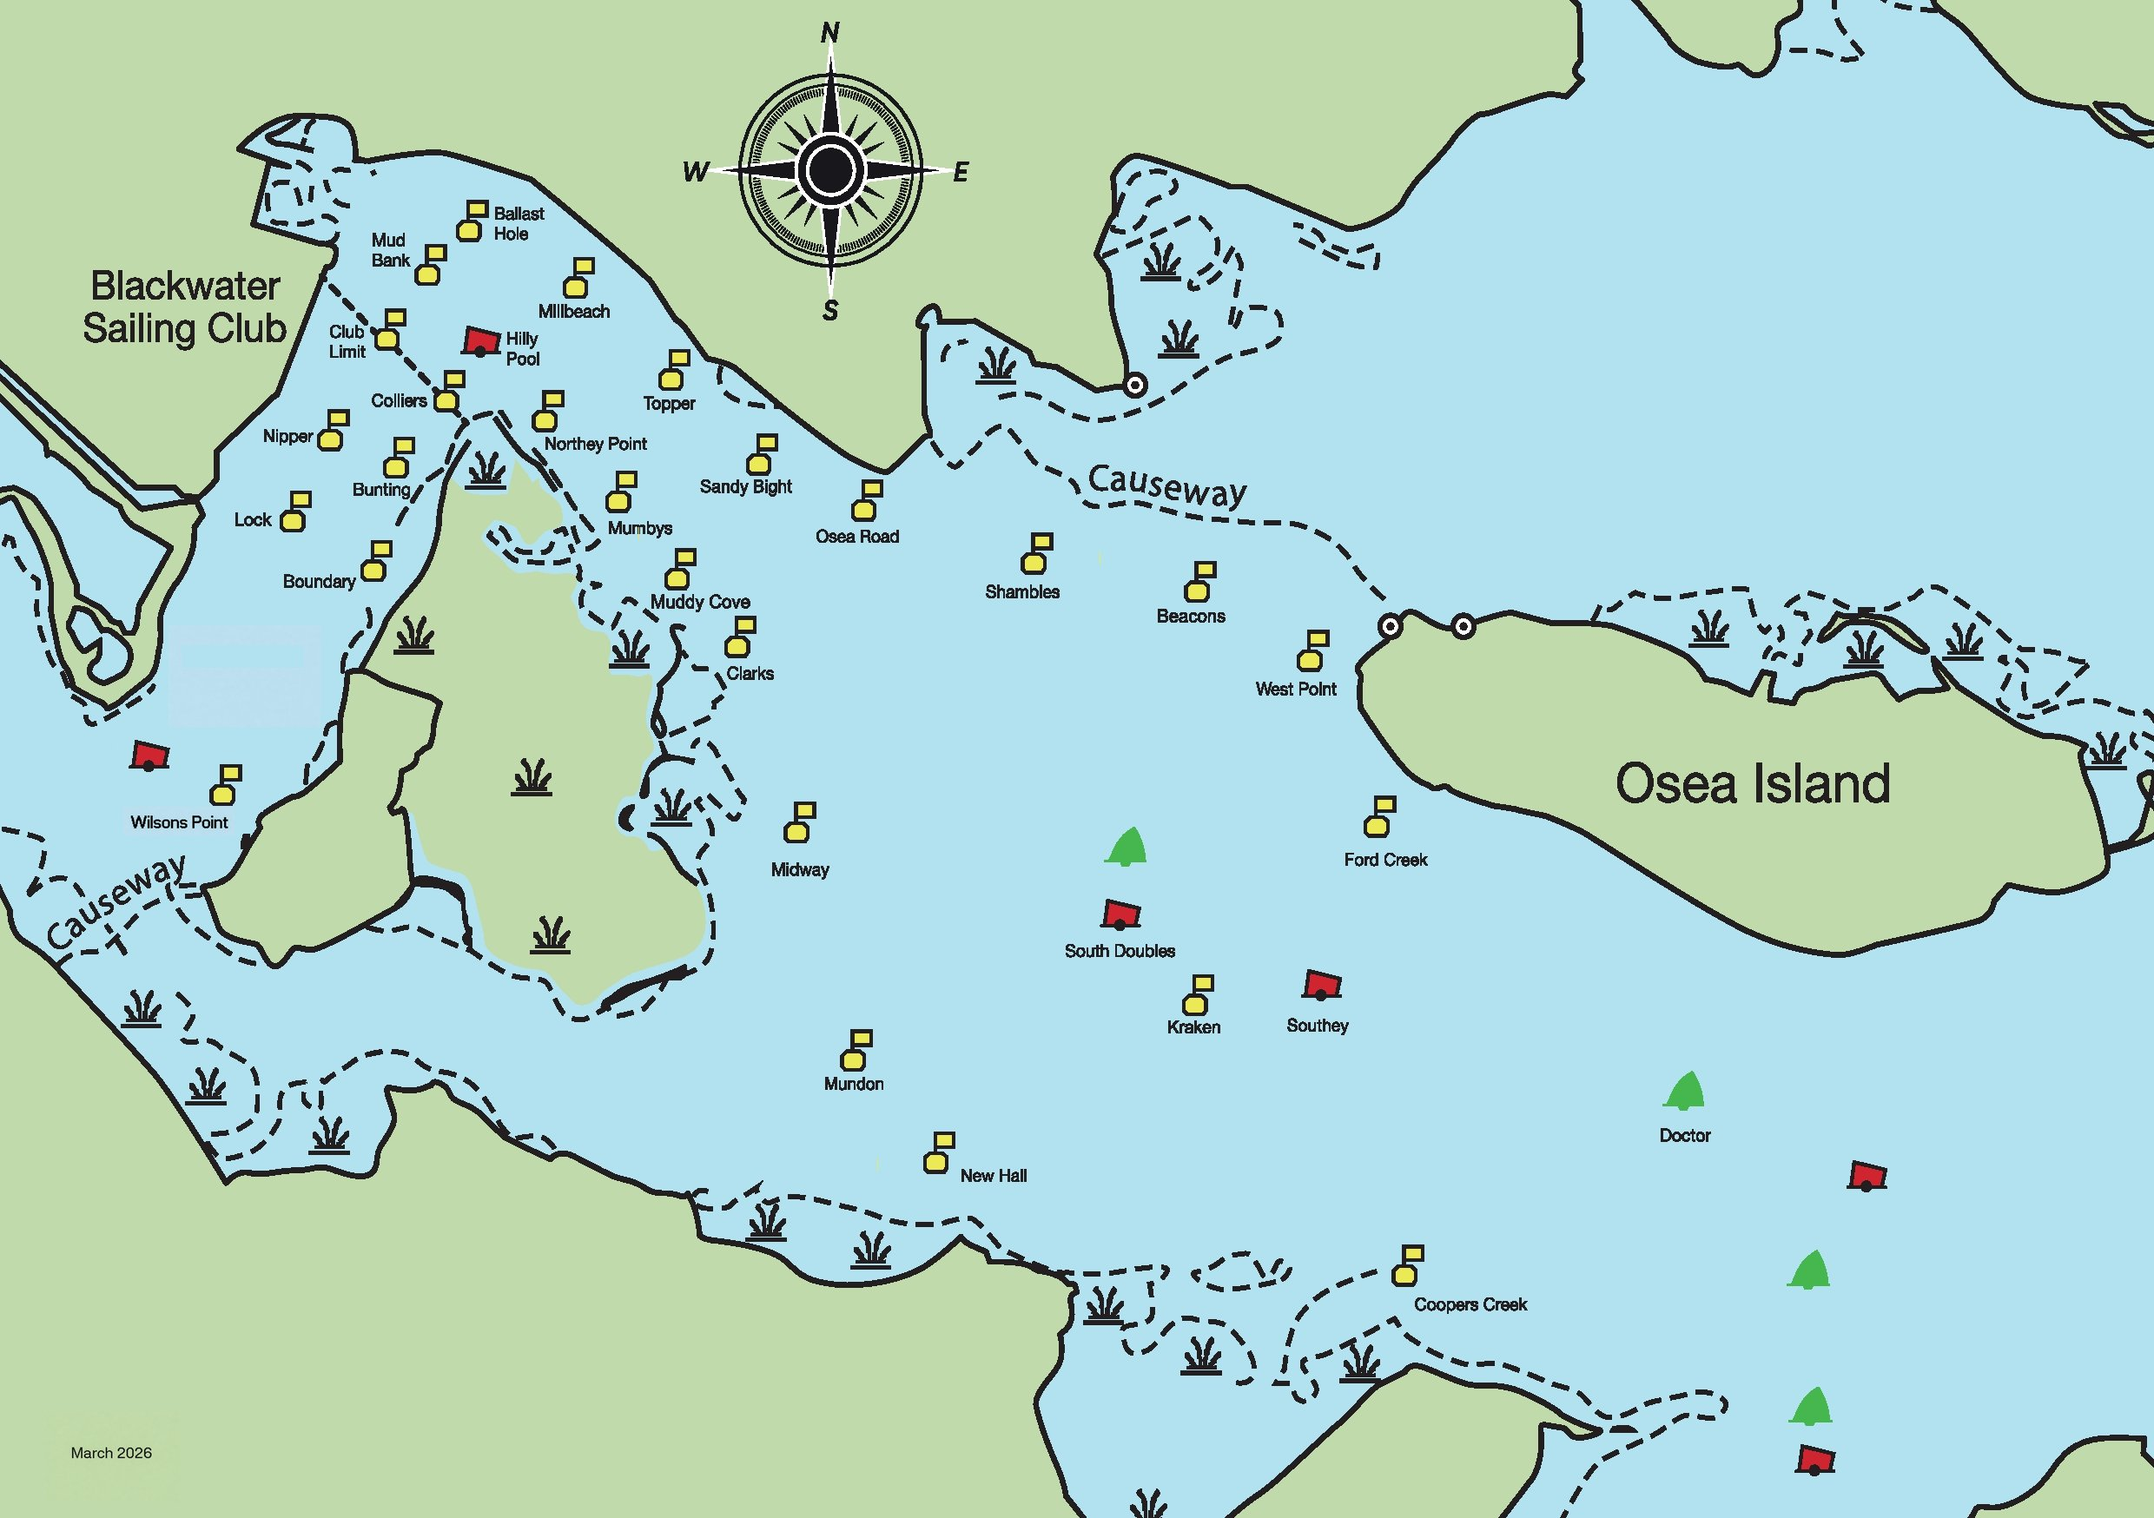
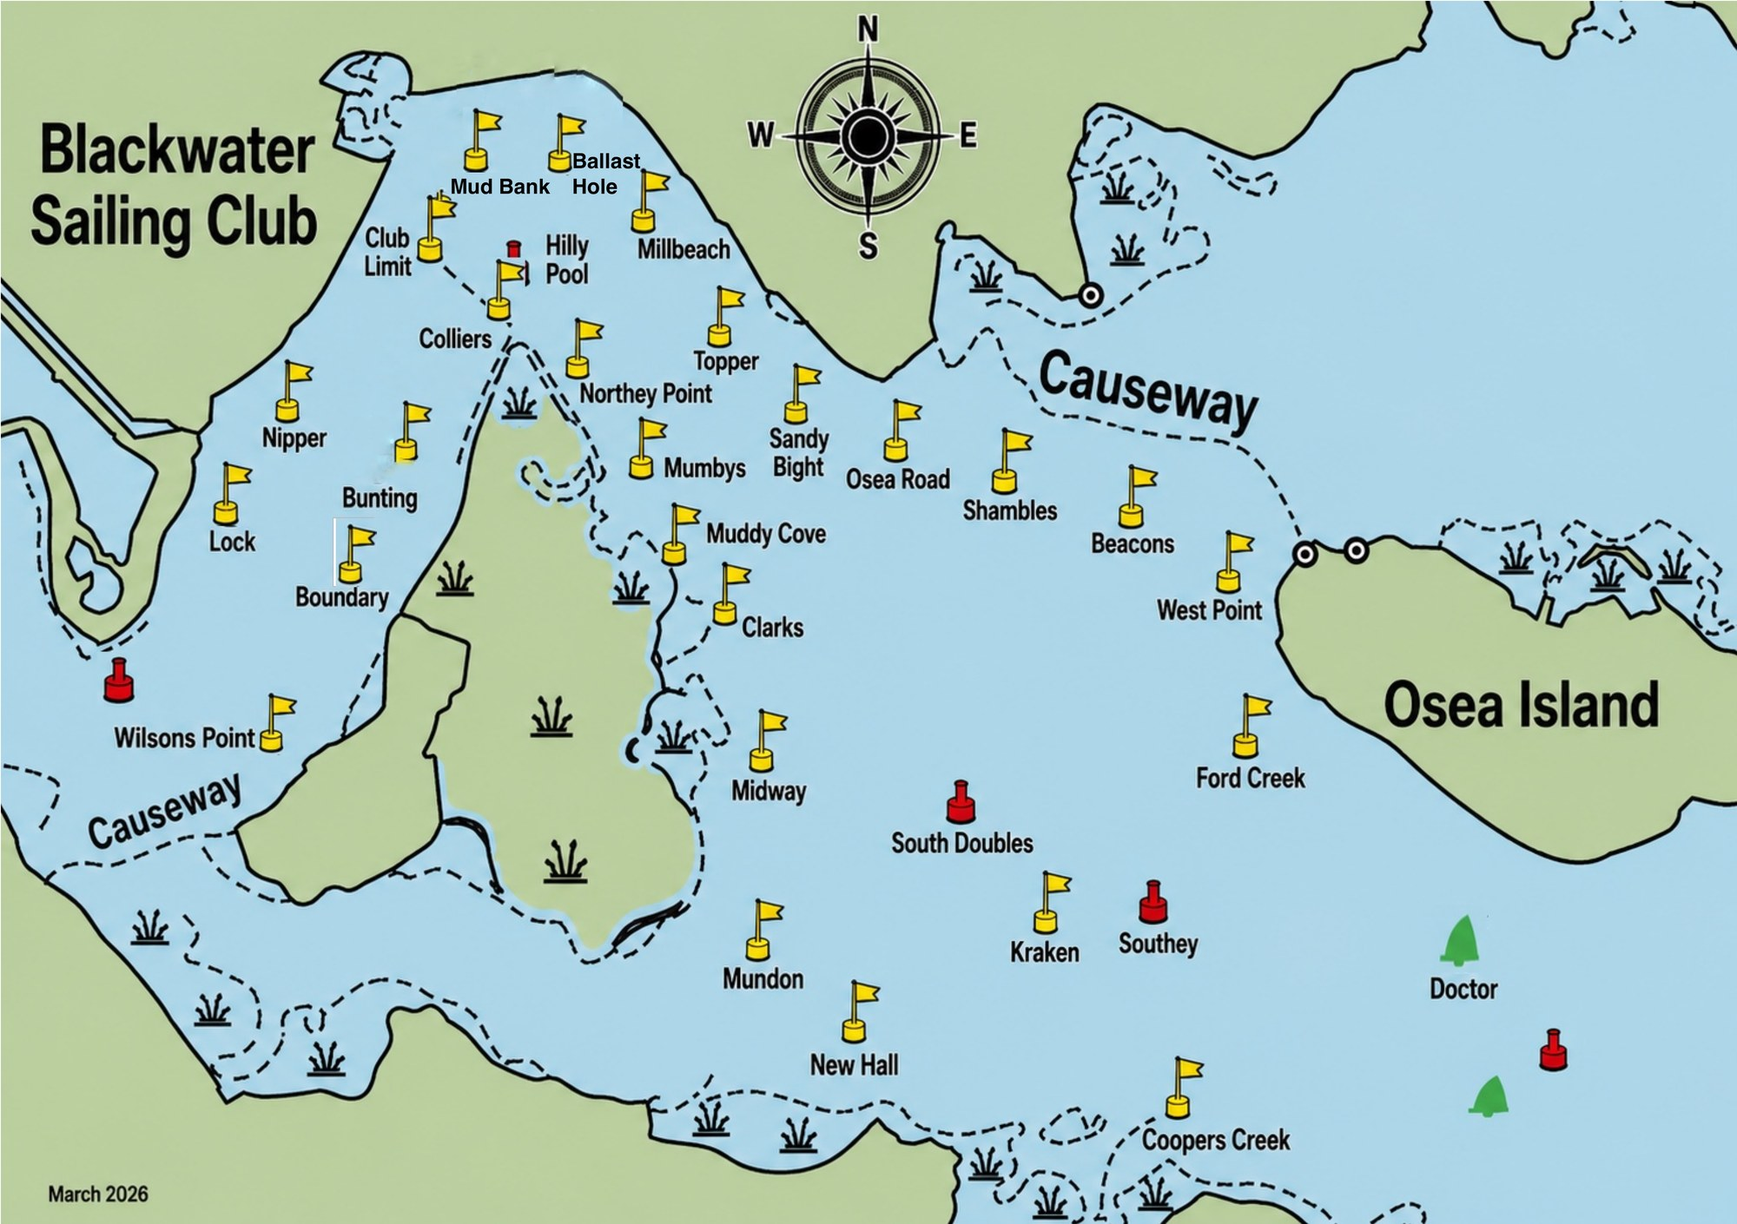
v2.11.0: large-print chart, remove Google Map

diff --git a/index.html b/index.html
@@ -1,5 +1,5 @@
 <!DOCTYPE html>
-<!-- BSC Sailing Calendar app, version 2.9.1 (2026-09-20) -->
+<!-- BSC Sailing Calendar app, version 2.11.0 (2026-09-23) -->
 <html lang="en-GB">
 <head>
 <meta charset="utf-8">
@@ -160,7 +160,6 @@ dialog#marks::backdrop { background: rgba(8, 20, 30, 0.6); }
 .chart-box { position: relative; width: 100%; aspect-ratio: 4/3; background: var(--bg); border: 1px solid var(--line); border-radius: 6px; overflow: hidden; }
 .chart-box iframe, .chart-box img { display: block; width: 100%; height: 100%; border: 0; object-fit: contain; background: #fff; }
 .chart-note { color: var(--muted); font-size: 0.85rem; margin: 8px 0 0; }
-.chart-toggle { margin: 10px 0 0; }
 .marklist { column-width: 150px; column-gap: 14px; margin: 14px 0 0; padding: 0; list-style: none; font-size: 0.92rem; }
 .marklist li { break-inside: avoid; padding: 3px 0; }
 .course-search { width: 100%; font: inherit; color: var(--ink); background: var(--surface); border: 1px solid var(--line); border-radius: 4px; padding: 9px 11px; margin: 0 0 8px; }
@@ -185,26 +184,27 @@ dialog#marks::backdrop { background: rgba(8, 20, 30, 0.6); }
 /* GO SAIL full-screen view: fixed dark, high-contrast, for reading on deck */
 dialog#sail { border: 0; padding: 0; width: 100%; height: 100%; max-width: 100%; max-height: 100%; margin: 0; background: #05131c; color: #fff; }
 dialog#sail::backdrop { background: #05131c; }
-.sail-in { min-height: 100%; padding: env(safe-area-inset-top, 16px) 16px calc(env(safe-area-inset-bottom, 16px) + 16px); box-sizing: border-box; }
+.sail-in { height: 100%; display: flex; flex-direction: column; padding: env(safe-area-inset-top, 14px) 16px calc(env(safe-area-inset-bottom, 12px) + 12px); box-sizing: border-box; }
 .sail-top { display: flex; justify-content: space-between; align-items: flex-start; gap: 10px; }
-.sail-code { font-family: var(--display); font-weight: 700; font-size: clamp(2.4rem, 13vw, 4rem); line-height: 1; letter-spacing: -0.01em; }
-.sail-meta { color: #9fc3d6; font-size: 1.05rem; margin-top: 4px; }
+.sail-code { font-family: var(--display); font-weight: 700; font-size: clamp(1.3rem, 6vw, 1.8rem); line-height: 1; letter-spacing: -0.01em; }
+.sail-meta { color: #9fc3d6; font-size: 0.95rem; margin-top: 3px; }
+.sail-header-row { flex: none; }
 .sail-close { flex: none; background: #12283a; color: #fff; border: 1px solid #2c4a5c; border-radius: 6px; padding: 10px 16px; font: inherit; font-size: 1rem; }
-.sail-stats { display: grid; grid-template-columns: 1fr 1fr; gap: 10px; margin: 18px 0 4px; }
-.sail-stat { background: #0d2130; border: 1px solid #1f3d4f; border-radius: 8px; padding: 10px 14px; }
+.sail-stats { flex: none; display: grid; grid-template-columns: 1fr 1fr; gap: 8px; margin: 10px 0 0; }
+.sail-stat { background: #0d2130; border: 1px solid #1f3d4f; border-radius: 8px; padding: 8px 12px; }
 .sail-stat span { display: block; color: #9fc3d6; font-size: 0.95rem; text-transform: uppercase; letter-spacing: 0.06em; }
-.sail-stat b { display: block; font-family: var(--display); font-weight: 700; font-size: clamp(1.8rem, 8vw, 2.6rem); line-height: 1.15; }
+.sail-stat b { display: block; font-family: var(--display); font-weight: 700; font-size: clamp(1.5rem, 6.5vw, 2.1rem); line-height: 1.15; }
 .sail-stat b.sail-empty { font-size: 1.3rem; font-weight: 600; color: #9fc3d6; }
-.sail-list { list-style: none; margin: 22px 0 0; padding: 0; }
-.sail-list li { display: flex; align-items: center; gap: 16px; padding: 14px 0; border-bottom: 1px solid #1f3d4f; }
+.sail-list { list-style: none; margin: 10px 0 0; padding: 0; flex: 1; min-height: 0; overflow-y: auto; font-size: 26px; }
+.sail-list li { display: flex; align-items: center; gap: 0.5em; padding: 0.4em 0; border-bottom: 1px solid #1f3d4f; }
 .sail-list li:first-child { padding-top: 0; }
-.sail-num { flex: none; width: 2.3ch; font-family: var(--display); font-weight: 700; font-size: clamp(1.4rem, 6vw, 1.9rem); color: #6f93a6; text-align: right; }
-.sail-side { flex: none; width: 2.4em; height: 2.4em; border-radius: 50%; display: flex; align-items: center; justify-content: center; font-family: var(--display); font-weight: 700; font-size: 1.3rem; color: #fff; }
+.sail-num { flex: none; width: 1.6em; font-family: var(--display); font-weight: 700; font-size: 0.75em; color: #6f93a6; text-align: right; }
+.sail-name { font-family: var(--display); font-weight: 700; font-size: 1em; line-height: 1.15; flex: 1; overflow-wrap: anywhere; }
+.sail-side { flex: none; width: 1.5em; height: 1.5em; border-radius: 50%; display: flex; align-items: center; justify-content: center; font-family: var(--display); font-weight: 700; font-size: 0.75em; color: #fff; }
 .sail-side.P { background: #c0332b; }
 .sail-side.S { background: #1e8a4c; }
 .sail-side.none { background: transparent; }
-.sail-name { font-family: var(--display); font-weight: 700; font-size: clamp(1.6rem, 7.5vw, 2.3rem); line-height: 1.15; flex: 1; }
-.sail-full { font-size: 0.85rem; font-weight: 700; color: #f2c14e; text-transform: uppercase; margin-top: 2px; display: block; }
+.sail-full { font-size: 0.42em; font-weight: 700; color: #f2c14e; text-transform: uppercase; margin-top: 0.15em; display: block; }
 
 .seasonbar { margin: -8px 0 14px; }
 .check { margin-top: 24px; padding: 12px 14px; border: 1px dashed var(--muted); border-radius: 6px; font-size: 0.9rem; }
@@ -357,7 +357,6 @@ dialog#sheet[open] { animation: rise 0.18s ease-out; }
     <div class="marks-pane" id="pane-chart">
       <div class="chart-box" id="chartBox"></div>
       <p class="chart-note" id="chartNote"></p>
-      <p class="chart-toggle"><button class="pill" type="button" id="chartSwap"></button></p>
       <h3 style="font-family:var(--display);font-size:1rem;margin:20px 0 4px;">Marks</h3>
       <ul class="marklist" id="markList"></ul>
     </div>
@@ -372,7 +371,7 @@ dialog#sheet[open] { animation: rise 0.18s ease-out; }
 
 <dialog id="sail" aria-labelledby="sail-code">
   <div class="sail-in">
-    <div class="sail-top">
+    <div class="sail-top sail-header-row">
       <div>
         <div class="sail-code" id="sail-code"></div>
         <div class="sail-meta" id="sail-meta"></div>
@@ -393,7 +392,7 @@ dialog#sheet[open] { animation: rise 0.18s ease-out; }
    only needs a new programme.csv (same column headings).
 ------------------------------------------------------------------ */
 const CONFIG = {
-  version: "2.9.1", released: "2026-09-20",   // bump both here and in sw.js, and add a line to CHANGELOG.md
+  version: "2.11.0", released: "2026-09-23",   // bump both here and in sw.js, and add a line to CHANGELOG.md
   filePattern: "programme-{year}.csv",  // one file per season: programme-2026.csv, programme-2027.csv, ...
   yearsBack: 1, yearsAhead: 2,          // which years to look for around the current year
   legacyFile: "programme.csv",          // an older single file: used for its own year if no dated file covers it
@@ -404,8 +403,7 @@ const CONFIG = {
   weekly: ["Mirror sailing", "Beach Club"],   // recurring weekly sessions (can be hidden)
   bigTidePercentile: 0.9,
   coursesFile: "courses-2026.csv",
-  chartMapId: "1VmEGCQAz58bNzscckavTremktJjx304",   // Google My Maps "BSC Race Marks"; iframe needs the map set to "Anyone with the link"
-  chartImage: "chart-2026.jpg",                     // offline fallback, from the printed chart
+  chartImage: "chart-2026.jpg",     // large-print race marks chart
   chartImageDate: "March 2026"
 };
 
@@ -950,11 +948,40 @@ const MARK_ABBR = {
   "Muddy Cove": "Muddy Cove", "West Point": "West Pt", "Ford Creek": "Ford Ck", "Coopers Creek": "Coopers Ck",
   "Wilsons Point": "Wilsons Pt", "Club Line Gate": "CLG", "Osea Road": "Osea Rd", "New Hall": "New Hall"
 };
+const GATE_MARKS = new Set(["Club Line Gate", "Finish"]);   // sailed through, not rounded to a side
 function abbr(name) { return MARK_ABBR[name] || name; }
+function todaysDay() {
+  const t0 = new Date(new Date().getFullYear(), new Date().getMonth(), new Date().getDate());
+  return DAYS.find(d => d.date.getTime() === t0.getTime());
+}
+function windSpeedFor(day) {
+  if (!day || WX.status !== "ok") return null;
+  const st = dayStart(day);
+  let hour = 12;
+  if (st && /^\d\d:\d\d$/.test(st)) hour = parseInt(st.slice(0, 2), 10);
+  else { const t0 = new Date(new Date().getFullYear(), new Date().getMonth(), new Date().getDate()); if (day.date.getTime() === t0.getTime()) hour = new Date().getHours(); }
+  const rec = WX.byTime[day.iso + "T" + String(hour).padStart(2, "0") + ":00"];
+  return rec ? Math.round(rec.wind) : null;
+}
+function fitSailList() {
+  const list = $("sail-list");
+  if (!list.children.length) return;
+  const maxSize = 30, minSize = 12;
+  const n = list.children.length;
+  const availH = list.clientHeight || 1;
+  let size = Math.max(minSize, Math.min(maxSize, Math.floor(availH / n / 1.9)));
+  list.style.fontSize = size + "px";
+  let guard = 40;
+  while (list.scrollHeight > list.clientHeight + 1 && size > minSize && guard-- > 0) {
+    size -= 1;
+    list.style.fontSize = size + "px";
+  }
+}
 function openSail(course) {
   $("sail-code").textContent = course.code;
-  $("sail-meta").textContent = "Wind from " + windGridLabel(course.wind) + " · " + course.distance.toFixed(1) + " miles";
-  const today = DAYS.find(d => d.date.getTime() === (new Date(new Date().getFullYear(), new Date().getMonth(), new Date().getDate())).getTime());
+  const today = todaysDay();
+  const kn = windSpeedFor(today);
+  $("sail-meta").textContent = "Wind: " + windGridLabel(course.wind) + (kn !== null ? " · " + kn + " kn" : "");
   const st = today ? dayStart(today) : "";
   const startEl = $("sail-start"), hwEl = $("sail-hw");
   startEl.textContent = st || "No club racing today"; startEl.classList.toggle("sail-empty", !st);
@@ -964,18 +991,20 @@ function openSail(course) {
   course.marks.forEach((m, i) => {
     const li = document.createElement("li");
     li.appendChild(el("span", "sail-num", String(i + 1)));
-    const s = el("span", "sail-side " + (m.side || "none"), m.side || "");
-    li.appendChild(s);
     const nm = el("div", "");
     nm.appendChild(el("span", "sail-name", abbr(m.name)));
     if (m.round === "Full") nm.appendChild(el("span", "sail-full", "Round fully"));
     li.appendChild(nm);
+    const side = GATE_MARKS.has(m.name) ? "" : m.side;
+    li.appendChild(el("span", "sail-side " + (side || "none"), side || ""));
     ul.appendChild(li);
   });
   const dlg = $("sail");
   if (!dlg.open) dlg.showModal();
+  requestAnimationFrame(() => requestAnimationFrame(fitSailList));
   if (navigator.wakeLock) navigator.wakeLock.request("screen").then(l => { dlg._wakeLock = l; }).catch(() => {});
 }
+window.addEventListener("resize", () => { if ($("sail").open) fitSailList(); });
 $("sail-close").addEventListener("click", () => $("sail").close());
 $("sail").addEventListener("close", () => { if ($("sail")._wakeLock) { $("sail")._wakeLock.release().catch(() => {}); $("sail")._wakeLock = null; } });
 
@@ -1002,7 +1031,8 @@ function renderCourses() {
     c.marks.forEach(m => {
       const li = document.createElement("li");
       li.appendChild(el("span", "", m.name + (m.round === "Full" ? " (round fully)" : "")));
-      if (m.side) li.appendChild(el("span", "side " + m.side, m.side === "P" ? "Port" : "Starboard"));
+      const side = GATE_MARKS.has(m.name) ? "" : m.side;
+      if (side) li.appendChild(el("span", "side " + side, side === "P" ? "Port" : "Starboard"));
       ul.appendChild(li);
     });
     card.appendChild(ul);
@@ -1018,26 +1048,15 @@ function renderMarkList() {
   MARKS.forEach(m => ul.appendChild(el("li", "", m)));
 }
 
-let chartMode = null;   // "live" | "static"
-function setChartMode(mode) {
-  chartMode = mode;
+let chartLoaded = false;
+function renderChart() {
+  if (chartLoaded) return;
+  chartLoaded = true;
   const box = $("chartBox"); box.textContent = "";
-  if (mode === "live") {
-    const f = document.createElement("iframe");
-    f.src = "https://www.google.com/maps/d/embed?mid=" + CONFIG.chartMapId;
-    f.loading = "lazy"; f.title = "BSC race marks chart";
-    box.appendChild(f);
-    $("chartNote").textContent = "Live chart. Needs an internet connection.";
-    $("chartSwap").textContent = "Show the printed chart instead";
-    $("chartSwap").onclick = () => setChartMode("static");
-  } else {
-    const img = document.createElement("img");
-    img.src = CONFIG.chartImage; img.alt = "BSC race marks chart, printed " + CONFIG.chartImageDate;
-    box.appendChild(img);
-    $("chartNote").textContent = "Printed chart, " + CONFIG.chartImageDate + ". Works offline.";
-    $("chartSwap").textContent = "Show the live chart instead";
-    $("chartSwap").onclick = () => setChartMode("live");
-  }
+  const img = document.createElement("img");
+  img.src = CONFIG.chartImage; img.alt = "BSC race marks chart, printed " + CONFIG.chartImageDate;
+  box.appendChild(img);
+  $("chartNote").textContent = "Printed chart, " + CONFIG.chartImageDate + ". Works offline once loaded.";
 }
 function openMarksDialog(tab) {
   const dlg = $("marks");
@@ -1046,7 +1065,7 @@ function openMarksDialog(tab) {
   $("pane-courses").hidden = tab !== "courses";
   if (!dlg.open) dlg.showModal();
   document.body.classList.add("lock");
-  if (tab === "chart" && chartMode === null) setChartMode(navigator.onLine ? "live" : "static");
+  if (tab === "chart") renderChart();
   loadCourses().then(ok => {
     if (tab === "chart") { if (ok) renderMarkList(); return; }
     if (!ok) { $("courseList").textContent = ""; $("courseList").appendChild(el("p", "course-empty", "The course cards couldn't be loaded. They need an internet connection the first time.")); return; }

diff --git a/sw.js b/sw.js
@@ -1,5 +1,5 @@
 // Network first, so updates show up straight away; falls back to the saved copy when offline.
-const VERSION = "2.9.1";                     // keep in step with CONFIG.version in index.html
+const VERSION = "2.11.0";                     // keep in step with CONFIG.version in index.html
 const CACHE = "bsc-sailing-" + VERSION;
 const FILES = ["./", "index.html", "manifest.webmanifest", "icon-192.png", "icon-512.png", "apple-touch-icon.png", "logo.png", "chart-2026.jpg", "courses-2026.csv"];
 

diff --git a/README.md b/README.md
@@ -37,14 +37,12 @@ The forecast needs an internet connection either way. If you see an old icon or 
 
 Tap **Race Courses** or **Race Marks Map** near the top of the app — each opens its own screen.
 
-- **Chart:** shows the club's live "BSC Race Marks" Google My Map when there's a connection, with a printed chart (from March 2026) as a fallback when offline, or on request via the toggle button underneath. A plain list of mark names sits below it.
+- **Chart:** shows the club's large-print race marks chart (March 2026). A plain list of mark names sits below it.
 - **Course cards:** all the club's printed courses, one card per wind direction and length. Filter by wind direction, or search by course code (for example `A3`) or a mark name. Each card expands to show its marks in sailing order, with Port or Starboard rounding.
 
 To update either for a new season:
-- **Chart:** edit the club's Google My Map directly (it updates live, nothing to redeploy), and replace `chart-2026.jpg` with a new export of the printed chart if that changes. If the map's own link (`mid=...`) changes, update `CONFIG.chartMapId` in `index.html`.
+- **Chart:** replace `chart-2026.jpg` with a new export of the printed chart when it changes.
 - **Course cards:** replace `courses-2026.csv` with the new season's data, keeping the same column headings (`Code, Family, Wind sector, Distance (miles), Order, Mark, Side, Rounding`), and update `CONFIG.coursesFile` if you rename it.
-
-The Google My Map needs its sharing set to "Anyone with the link" or the embed shows a sign-in prompt instead of the map.
 
 ## Adding a new season (2027 and beyond)
 
@@ -99,7 +97,7 @@ To release a new version: change `CONFIG.version` and `CONFIG.released` in `inde
 | `CHANGELOG.md` | What changed in each version. |
 | `icon-192.png`, `icon-512.png`, `apple-touch-icon.png` | The app icon (the club roundel on white). |
 | `logo.png` | The club roundel shown next to the title. If it is missing the page just leaves it out. |
-| `chart-2026.jpg` | The printed race-marks chart, used offline or when the live map isn't wanted. |
+| `chart-2026.jpg` | The printed race-marks chart (large-print version). |
 | `courses-2026.csv` | The course cards: one row per mark, grouped into courses. |
 
 Weather data is from [Open-Meteo.com](https://open-meteo.com/).

diff --git a/CHANGELOG.md b/CHANGELOG.md
@@ -2,6 +2,14 @@
 
 Version numbers are in `CONFIG.version` in `index.html` and `VERSION` in `sw.js`. Keep the two the same, and add a line here for every release. The version is shown at the bottom of the app, with more detail under **Support info**.
 
+## 2.11.0 – 23 Sep 2026
+- Replaced the race marks chart with the club's large-print version (clearer buoy icons and labels); the chart is now this printed image only — the live Google My Map and the toggle between them are removed.
+
+## 2.10.0 – 20 Sep 2026
+- GO SAIL: the P/S circle now sits on the right of the mark name; Club Line Gate and Finish never show a rounding side, since you sail through them rather than round them (the ordinary Race Courses list carries the same fix).
+- The whole course now fits the screen with no scrolling — text size adjusts automatically to the number of marks and the screen's height, checked down to a 16-mark course on a small phone.
+- Smaller course-code heading; the wind line is now "Wind: N–NNE · 11 kn", pulling today's live forecast wind speed for the course's start time (or the current hour if racing hasn't started); distance is dropped from this screen to save space.
+
 ## 2.9.1 – 20 Sep 2026
 - GO SAIL: a day with no club racing now says "No club racing today" instead of a bare dash (BJRC racing, training-only, or weekly-session days still show the tide if there is one); a day with no data at all says "No tide data today" too, rather than leaving either box looking blank.
 
